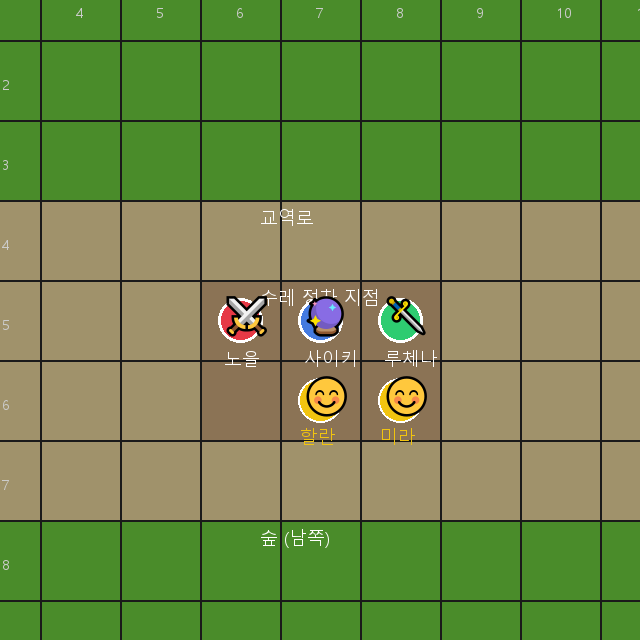
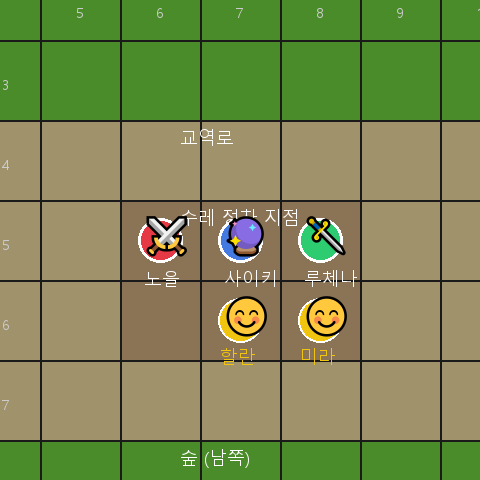
fix: 미니맵 크롭 반경 축소(4→3) + 확대 오버레이 축소(75→65vw)

diff --git a/templates/index.html b/templates/index.html
@@ -393,8 +393,8 @@
         }
         .map-overlay.active { display: flex; }
         .map-overlay img {
-            max-width: 75vw;
-            max-height: 75vh;
+            max-width: 65vw;
+            max-height: 65vh;
             object-fit: contain;
             border: 3px solid #e94560;
             border-radius: 12px;

diff --git a/map_generator.py b/map_generator.py
@@ -271,7 +271,7 @@ class MapGenerator:
         avg_y = sum(p[1] for p in positions) / len(positions)
 
         # 주변 반경 (타일 단위)
-        radius = 4
+        radius = 3
         margin_left = 36
         margin_top = 28
 
